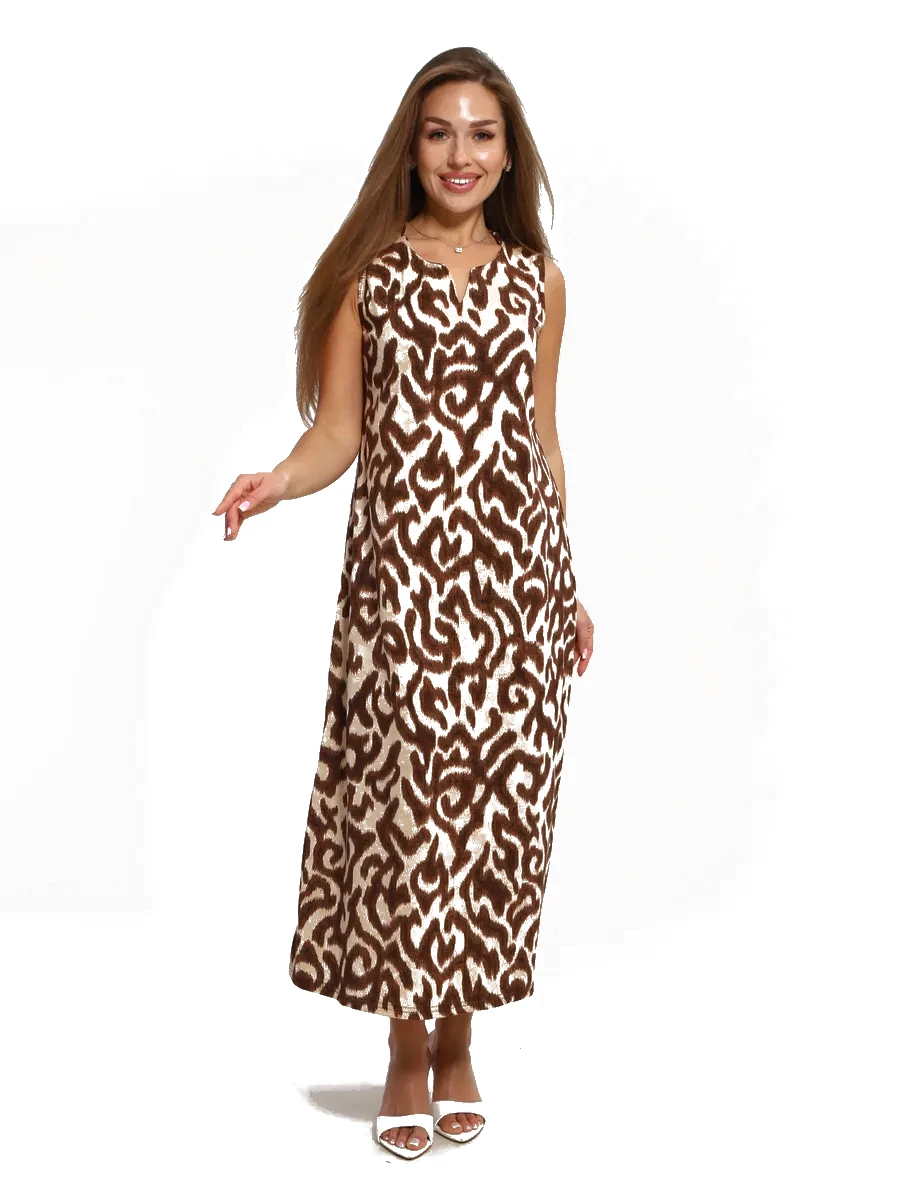
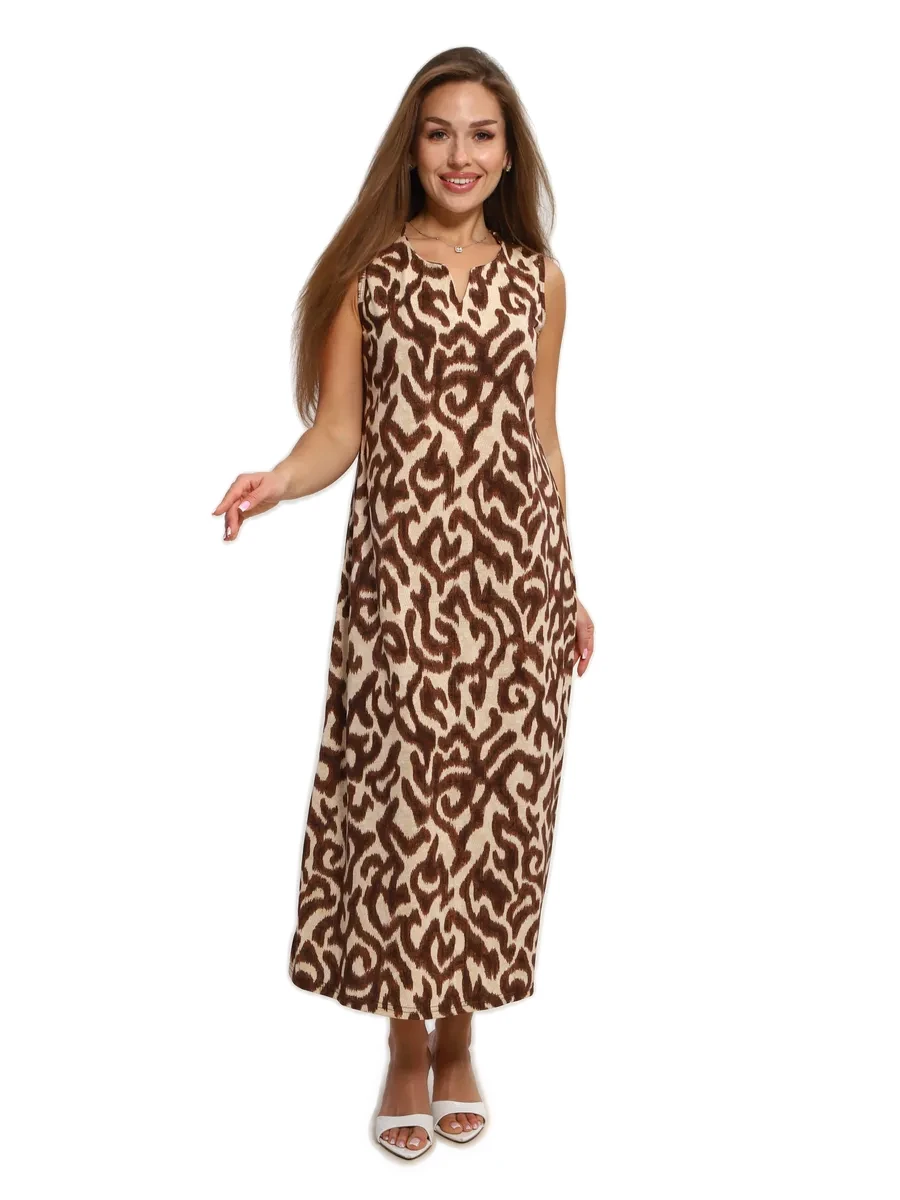
fix(catalog): restore hero photos over-whitened into fabric/halos
Aggressive gray→white thresholding bleached cream garments and left
hair/arm halos on 10 SKUs. Restore from real-01.webp backups, mask the
subject with rembg, despill studio fringe, and composite onto clean
white while preserving original fabric luminance (same approach as
М-120Г). Regenerates matching 01-card thumbs.

diff --git a/scripts/fix_hero_white_halos.py b/scripts/fix_hero_white_halos.py
@@ -1,0 +1,143 @@
+# -*- coding: utf-8 -*-
+"""Restore over-whitened catalog heroes from real-01.webp and carefully re-whiten.
+
+Aggressive gray→white thresholding (scripts/whiten_01_bg.py) bleached cream fabric
+and left halos. This restores subject pixels from the pre-whiten backup, builds a
+person mask with rembg (u2net_human_seg), despills studio-gray fringe, and
+composites onto pure white — same idea as the successful М-120Г fix.
+"""
+from __future__ import annotations
+
+import sys
+from io import BytesIO
+from pathlib import Path
+
+import cv2
+import numpy as np
+from PIL import Image
+from rembg import new_session, remove
+
+ROOT = Path(__file__).resolve().parents[1]
+IMG_ROOT = ROOT / "public" / "images" / "products"
+
+# SKUs reported with blown whites / hair-arm halos after aggressive whitening.
+SKUS = [
+    "mtk-130v",
+    "mtk-130b",
+    "mtk-145b",
+    "mtk-145s",
+    "m-105t",
+    "mtk-114k",
+    "h-315b",
+    "m-105m",
+    "m-105sh",
+    "n-150s",
+]
+
+DILATE_PX = 2
+BLUR_SIGMA = 0.7
+WEBP_QUALITY = 90
+CARD_MAX_SIDE = 960
+
+
+def corner_bg(arr: np.ndarray) -> np.ndarray:
+    h, w = arr.shape[:2]
+    s = max(8, min(h, w) // 20)
+    patches = [arr[:s, :s], arr[:s, -s:], arr[-s:, :s], arr[-s:, -s:]]
+    samples = np.concatenate([p.reshape(-1, 3) for p in patches], axis=0)
+    luma = samples.mean(axis=1)
+    bright = samples[luma > np.percentile(luma, 40)]
+    if len(bright) < 10:
+        bright = samples
+    return np.median(bright.astype(np.float32), axis=0)
+
+
+def person_alpha(rgb_img: Image.Image, session) -> np.ndarray:
+    buf = BytesIO()
+    rgb_img.save(buf, format="PNG")
+    cut = remove(buf.getvalue(), session=session)
+    rgba = np.asarray(Image.open(BytesIO(cut)).convert("RGBA"))
+    return rgba[:, :, 3].astype(np.float32) / 255.0
+
+
+def careful_whiten(rgb: np.ndarray, alpha: np.ndarray, bg: np.ndarray) -> np.ndarray:
+    """Keep original subject RGB; only replace background with white after despill."""
+    a = alpha.copy()
+    if DILATE_PX > 0:
+        k = cv2.getStructuringElement(cv2.MORPH_ELLIPSE, (DILATE_PX * 2 + 1,) * 2)
+        a = cv2.dilate((a * 255).astype(np.uint8), k).astype(np.float32) / 255.0
+    if BLUR_SIGMA > 0:
+        a = cv2.GaussianBlur(a, (0, 0), BLUR_SIGMA)
+    a = np.clip(a, 0.0, 1.0)
+
+    eps = 1e-3
+    aa = np.maximum(a, eps)
+    # Uncompose assumed studio background color (removes gray fringe / halo).
+    fg = (rgb - bg * (1.0 - aa[..., None])) / aa[..., None]
+    fg = np.clip(fg, 0.0, 255.0)
+
+    # Deep inside the subject keep original pixels (fabric luminance untouched).
+    core = (a >= 0.92).astype(np.float32)
+    core = cv2.GaussianBlur(core, (0, 0), 1.0)
+    core = np.clip(core, 0.0, 1.0)[..., None]
+    subject = rgb * core + fg * (1.0 - core)
+
+    out = subject * a[..., None] + 255.0 * (1.0 - a[..., None])
+    return np.clip(out, 0.0, 255.0).astype(np.uint8)
+
+
+def make_card(src: Path, dest: Path) -> None:
+    im = Image.open(src).convert("RGB")
+    w, h = im.size
+    longest = max(w, h)
+    if longest > CARD_MAX_SIDE:
+        scale = CARD_MAX_SIDE / longest
+        im = im.resize(
+            (max(1, round(w * scale)), max(1, round(h * scale))),
+            Image.Resampling.LANCZOS,
+        )
+    dest.parent.mkdir(parents=True, exist_ok=True)
+    im.save(dest, "WEBP", quality=82, method=6)
+
+
+def process_sku(sku: str, session) -> None:
+    folder = IMG_ROOT / sku
+    real_path = folder / "real-01.webp"
+    out_path = folder / "01.webp"
+    card_path = folder / "01-card.webp"
+    if not real_path.exists():
+        raise FileNotFoundError(f"missing backup {real_path}")
+
+    real = Image.open(real_path).convert("RGB")
+    rgb = np.asarray(real, dtype=np.float32)
+    bg = corner_bg(rgb)
+    alpha = person_alpha(real, session)
+    out = careful_whiten(rgb, alpha, bg)
+
+    Image.fromarray(out).save(out_path, "WEBP", quality=WEBP_QUALITY, method=4)
+    make_card(out_path, card_path)
+
+    # QA metrics vs backup
+    mask = alpha >= 0.85
+    subj_delta = float(np.mean(np.abs(out.astype(np.float32)[mask] - rgb[mask]))) if mask.any() else 0.0
+    cream = mask & (rgb.mean(2) > 200) & (rgb.mean(2) < 248)
+    blown = float((out.astype(np.float32)[cream].mean(1) >= 254).mean()) if cream.any() else 0.0
+    corner = float(out[:20, :20].mean())
+    print(
+        f"{sku}: wrote {out_path.relative_to(ROOT)} "
+        f"subj_delta={subj_delta:.2f} cream_blown={blown:.3f} corner={corner:.1f}",
+        flush=True,
+    )
+
+
+def main() -> int:
+    targets = sys.argv[1:] or SKUS
+    session = new_session("u2net_human_seg")
+    for sku in targets:
+        process_sku(sku, session)
+    print(f"DONE {len(targets)} SKUs")
+    return 0
+
+
+if __name__ == "__main__":
+    raise SystemExit(main())
